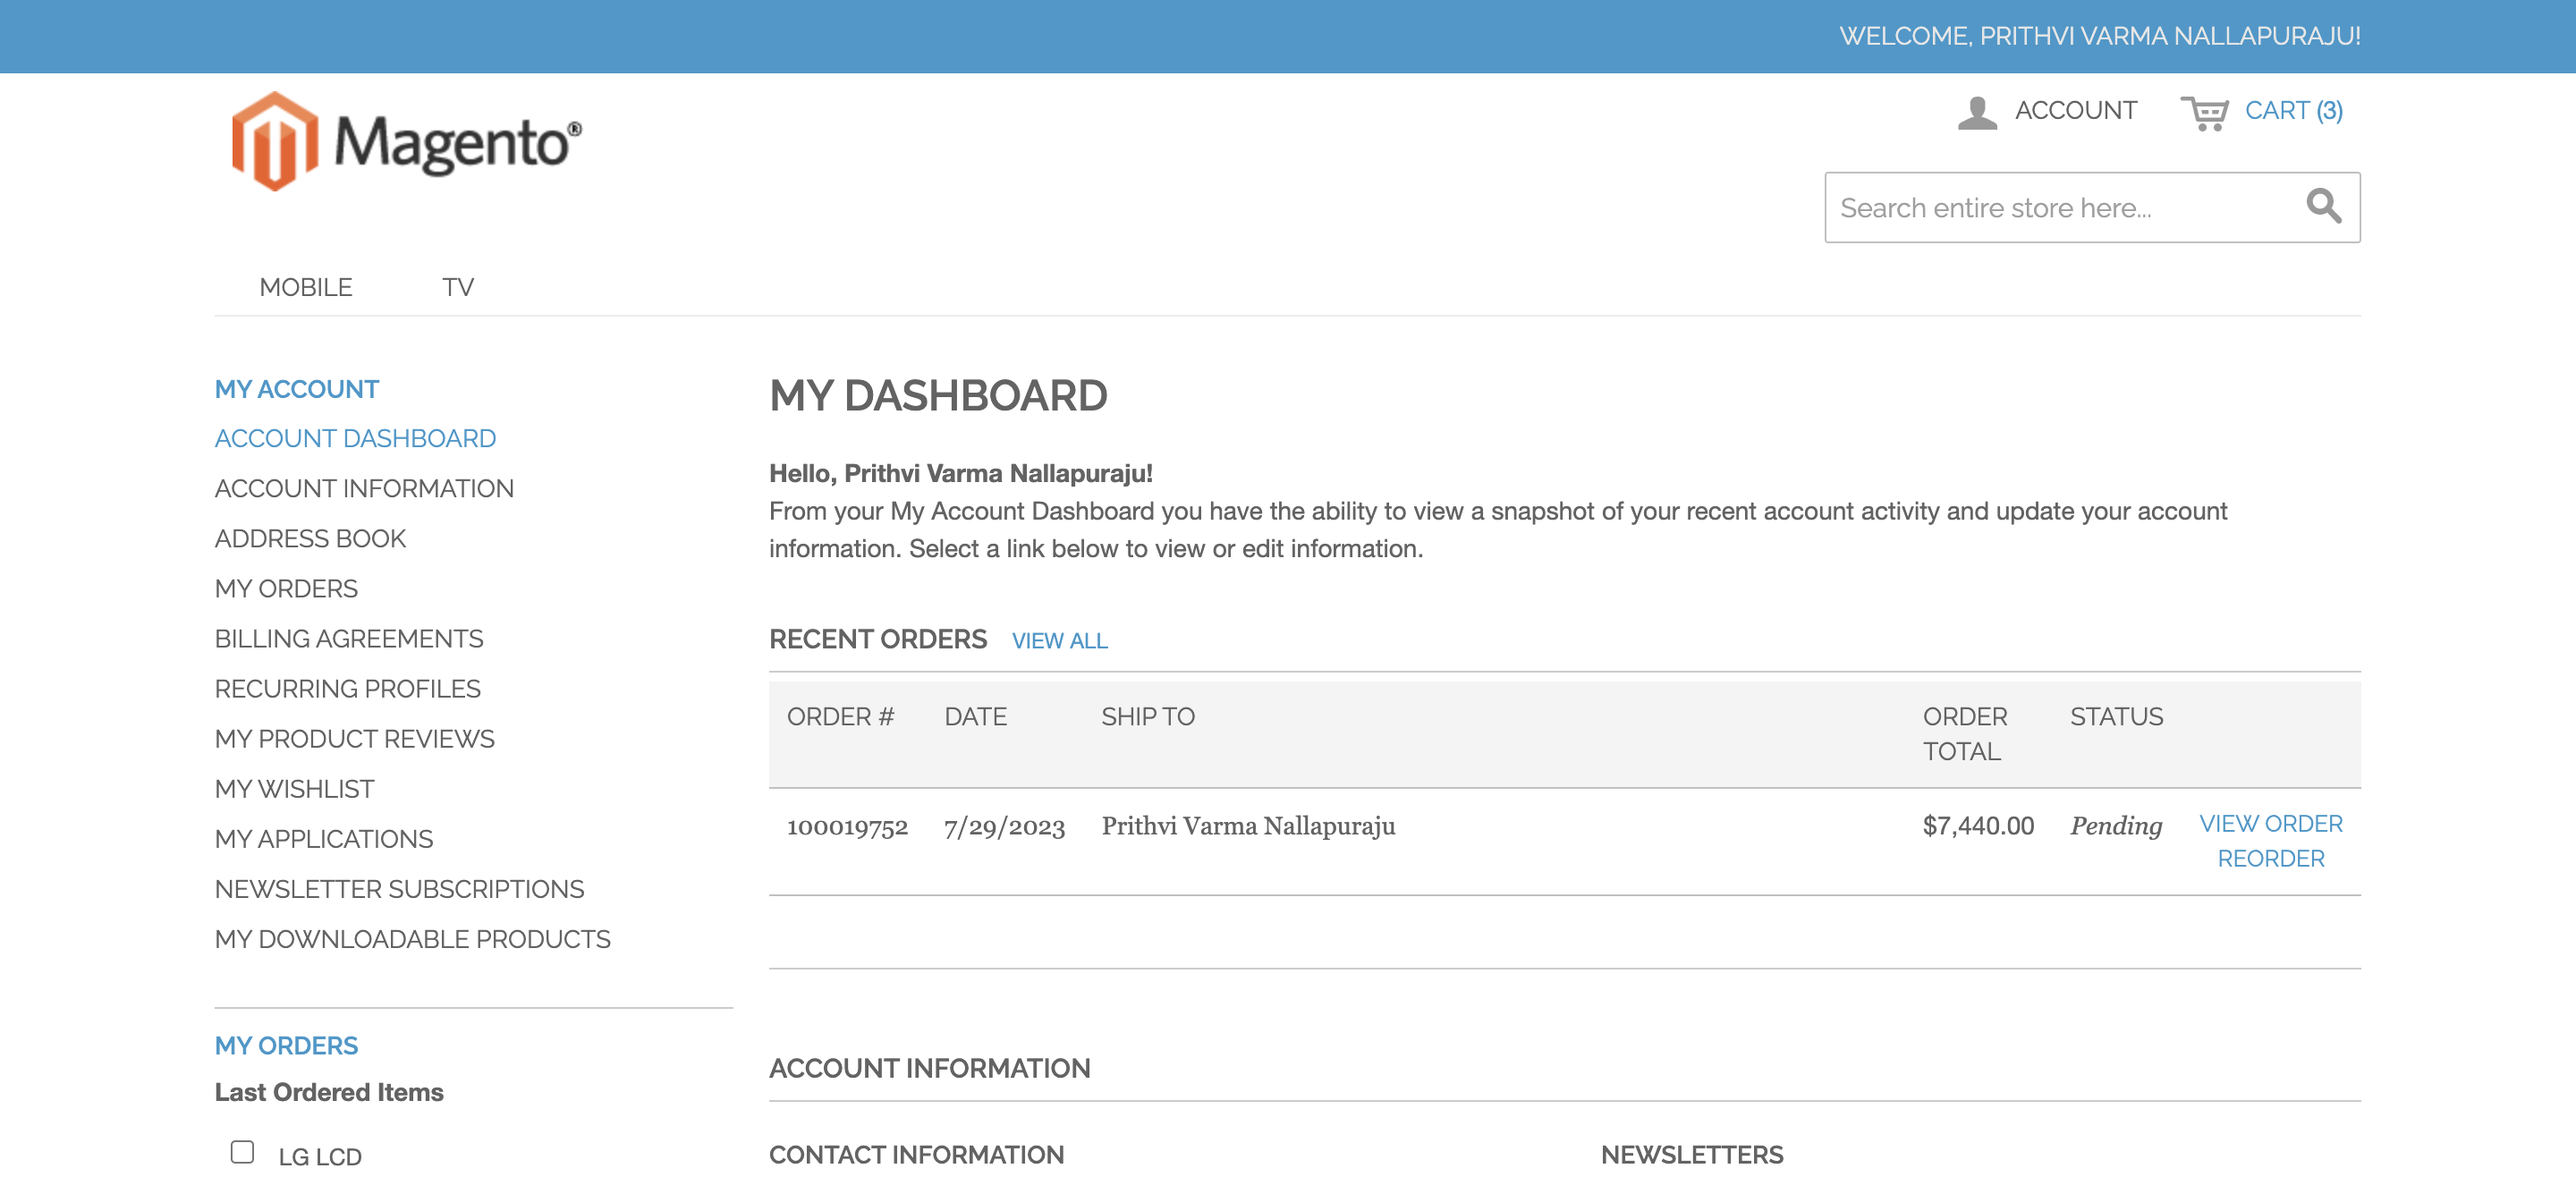
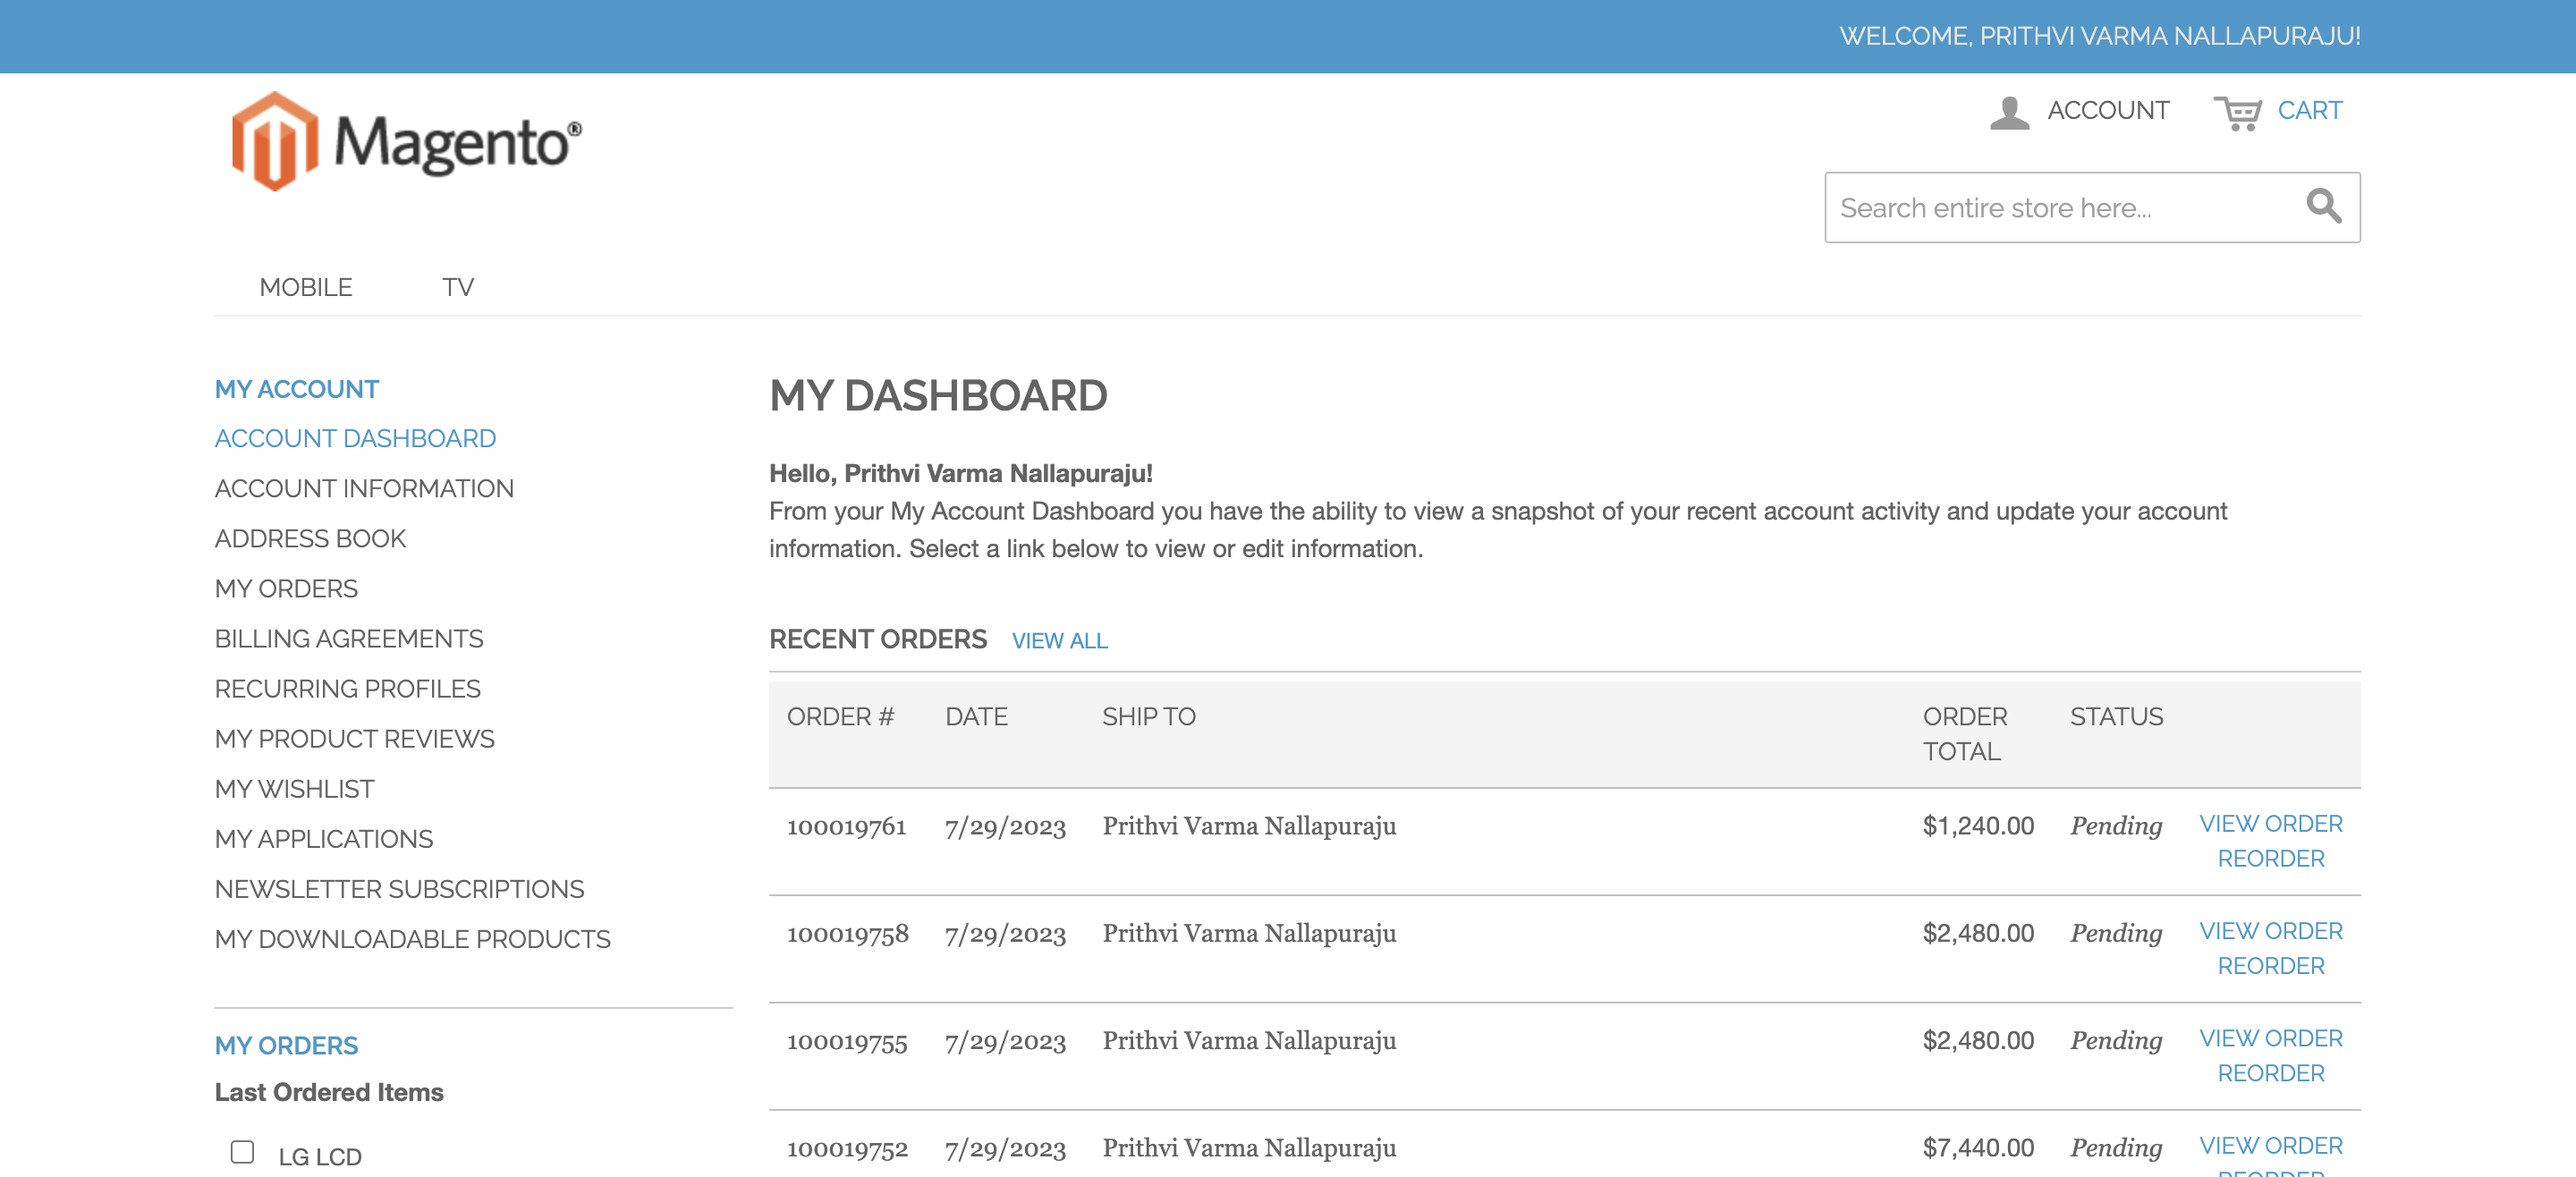
completed day 7 tests (#10)

diff --git a/Scripts/Day7/ReOrder.js b/Scripts/Day7/ReOrder.js
@@ -1,0 +1,61 @@
+const { until, By } = require("selenium-webdriver")
+const { screenshot } = require('../../utils/Screenshot')
+const { delay } = require('../../utils/Delay')
+const mainpath = require('path')
+require('dotenv').config({path: mainpath.join(__dirname,'../../.env')})
+
+let screenshotPath
+
+const reorder = async (brwsr, folder, driver) => {
+
+    await driver.manage().setTimeouts({implicit : 10000 })
+
+    try{
+        const reOrderElement = await driver.wait(until.elementLocated(By.xpath("(//a[@class='link-reorder'])[1]")))
+        await driver.wait(until.elementIsVisible(reOrderElement))
+        await reOrderElement.click()
+
+        await delay(1000)
+
+        const quantityElement = await driver.wait(until.elementLocated(By.xpath("//input[@title='Qty']")))
+        await driver.wait(until.elementIsVisible(quantityElement))
+        await quantityElement.click()
+        await quantityElement.clear()
+        await quantityElement.sendKeys(15)
+
+        if(process.env.CAPTURE_SCREENSHOTS == 'true'){
+            await delay(1000)
+            screenshotPath = mainpath.join(__dirname, `../../Outputs/${brwsr}/${folder}`,'update_quantity.png')
+            await screenshot(driver, screenshotPath)
+        }
+
+        await delay(1000)
+
+        const updateElement = await driver.wait(until.elementLocated(By.xpath("//button[@title='Update']")))
+        await driver.wait(until.elementIsVisible(updateElement))
+        await updateElement.click()
+
+        await delay(1000)
+
+        const proceedElement = await driver.wait(until.elementLocated(By.xpath('(//button[@title="Proceed to Checkout"])[1]')))
+        await driver.wait(until.elementIsVisible(proceedElement))
+        await proceedElement.click()
+
+        if(process.env.CAPTURE_SCREENSHOTS == 'true'){
+            await delay(1000)
+            screenshotPath = mainpath.join(__dirname, `../../Outputs/${brwsr}/${folder}`,'shipping_information.png')
+            await screenshot(driver, screenshotPath)
+        }
+
+        return true
+
+    }catch(error){
+        console.error
+        return false
+    }
+}
+
+
+module.exports = {
+    reorder
+}

diff --git a/tests/Safari/Day7.test.js b/tests/Safari/Day7.test.js
@@ -1,0 +1,34 @@
+const { driverSetup } = require('../../utils/Driver')
+const { getHomePageTitle, login, reorder, shippingInformation, orderPlace } = require('../index')
+
+let result, driver = driverSetup('safari')
+
+describe('Verifying the functionalities given on day 7', () => {
+
+    test('get the home page title using Safari browser', async () => {
+        result = await getHomePageTitle('Safari', 'Day7', driver)
+        expect(result).toBe('Home page')
+    }, 100000)
+
+    test('login into your account using Safari Browser', async () => {
+        result = await login('Safari', 'Day7', driver, 'prithvivarma1@gmail.com')
+        expect(result).toBe('My Account')
+    }, 100000)
+
+    test('reorder the same element using Safari Browser', async () => {
+        result = await reorder('Safari', 'Day7', driver)
+        expect(result).toBe(true)
+    }, 100000)
+
+    test('entering the billing information using Safari Browser', async () => {
+        result = await shippingInformation('Safari', 'Day7', driver)
+        expect(result).toBe(true)
+    }, 100000)
+
+    test('place the order using Safari Browser', async () => {
+        result = await orderPlace('Safari', 'Day7', driver)
+        expect(result).toBe(true)
+    }, 100000)   
+
+
+})

diff --git a/tests/Firefox/Day7.test.js b/tests/Firefox/Day7.test.js
@@ -1,0 +1,33 @@
+const { driverSetup, getHomePageTitle, login, reorder, shippingInformation, orderPlace } = require('../index')
+
+let result, driver = driverSetup('firefox')
+
+describe('Verifying the functionalities given on day 7', () => {
+
+    test('get the home page title using Firefox browser', async () => {
+        result = await getHomePageTitle('Firefox', 'Day7', driver)
+        expect(result).toBe('Home page')
+    }, 100000)
+
+    test('login into your account using Firefox Browser', async () => {
+        result = await login('Firefox', 'Day7', driver, 'prithvivarma2@gmail.com')
+        expect(result).toBe('My Account')
+    }, 100000)
+
+    test('reorder the same element using Firefox Browser', async () => {
+        result = await reorder('Firefox', 'Day7', driver)
+        expect(result).toBe(true)
+    }, 100000)
+
+    test('entering the billing information using Firefox Browser', async () => {
+        result = await shippingInformation('Firefox', 'Day7', driver)
+        expect(result).toBe(true)
+    }, 100000)
+
+    test('place the order using Firefox Browser', async () => {
+        result = await orderPlace('Firefox', 'Day7', driver)
+        expect(result).toBe(true)
+    }, 100000)   
+
+
+})

diff --git a/tests/Chrome/Day7.test.js b/tests/Chrome/Day7.test.js
@@ -1,0 +1,33 @@
+const { driverSetup, getHomePageTitle, login, reorder, shippingInformation, orderPlace } = require('../index')
+
+let result, driver = driverSetup('chrome')
+
+describe('Verifying the functionalities given on day 7', () => {
+
+    test('get the home page title using chrome browser', async () => {
+        result = await getHomePageTitle('Chrome', 'Day7', driver)
+        expect(result).toBe('Home page')
+    }, 100000)
+
+    test('login into your account using Chrome Browser', async () => {
+        result = await login('Chrome', 'Day7', driver, 'prithvivarma4@gmail.com')
+        expect(result).toBe('My Account')
+    }, 100000)
+
+    test('reorder the same element using Chrome Browser', async () => {
+        result = await reorder('Chrome', 'Day7', driver)
+        expect(result).toBe(true)
+    }, 100000)
+
+    test('entering the billing information using Chrome Browser', async () => {
+        result = await shippingInformation('Chrome', 'Day7', driver)
+        expect(result).toBe(true)
+    }, 100000)
+
+    test('place the order using Chrome Browser', async () => {
+        result = await orderPlace('Chrome', 'Day7', driver)
+        expect(result).toBe(true)
+    }, 100000)   
+
+
+})

diff --git a/tests/Edge/Day7.test.js b/tests/Edge/Day7.test.js
@@ -1,0 +1,33 @@
+const { driverSetup, getHomePageTitle, login, reorder, shippingInformation, orderPlace } = require('../index')
+
+let result, driver = driverSetup('edge')
+
+describe('Verifying the functionalities given on day 7', () => {
+
+    test('get the home page title using Edge browser', async () => {
+        result = await getHomePageTitle('Edge', 'Day7', driver)
+        expect(result).toBe('Home page')
+    }, 100000)
+
+    test('login into your account using Edge Browser', async () => {
+        result = await login('Edge', 'Day7', driver, 'prithvivarma3@gmail.com')
+        expect(result).toBe('My Account')
+    }, 100000)
+
+    test('reorder the same element using Edge Browser', async () => {
+        result = await reorder('Edge', 'Day7', driver)
+        expect(result).toBe(true)
+    }, 100000)
+
+    test('entering the billing information using Edge Browser', async () => {
+        result = await shippingInformation('Edge', 'Day7', driver)
+        expect(result).toBe(true)
+    }, 100000)
+
+    test('place the order using Edge Browser', async () => {
+        result = await orderPlace('Edge', 'Day7', driver)
+        expect(result).toBe(true)
+    }, 100000)   
+
+
+})

diff --git a/tests/index.js b/tests/index.js
@@ -19,6 +19,7 @@ const { shareWishlist } = require('../Scripts/Day5/ShareWishlist')
 const { checkout } = require('../Scripts/Day6/Checkout')
 const { shippingInformation } = require('../Scripts/Day6/ShippingInformation')
 const { orderPlace } = require('../Scripts/Day6/OrderPlace')
+const { reorder } = require('../Scripts/Day7/ReOrder')
 
 
 module.exports = {
@@ -42,6 +43,7 @@ module.exports = {
     shareWishlist,
     checkout,
     shippingInformation,
-    orderPlace
+    orderPlace,
+    reorder
     
 }   
